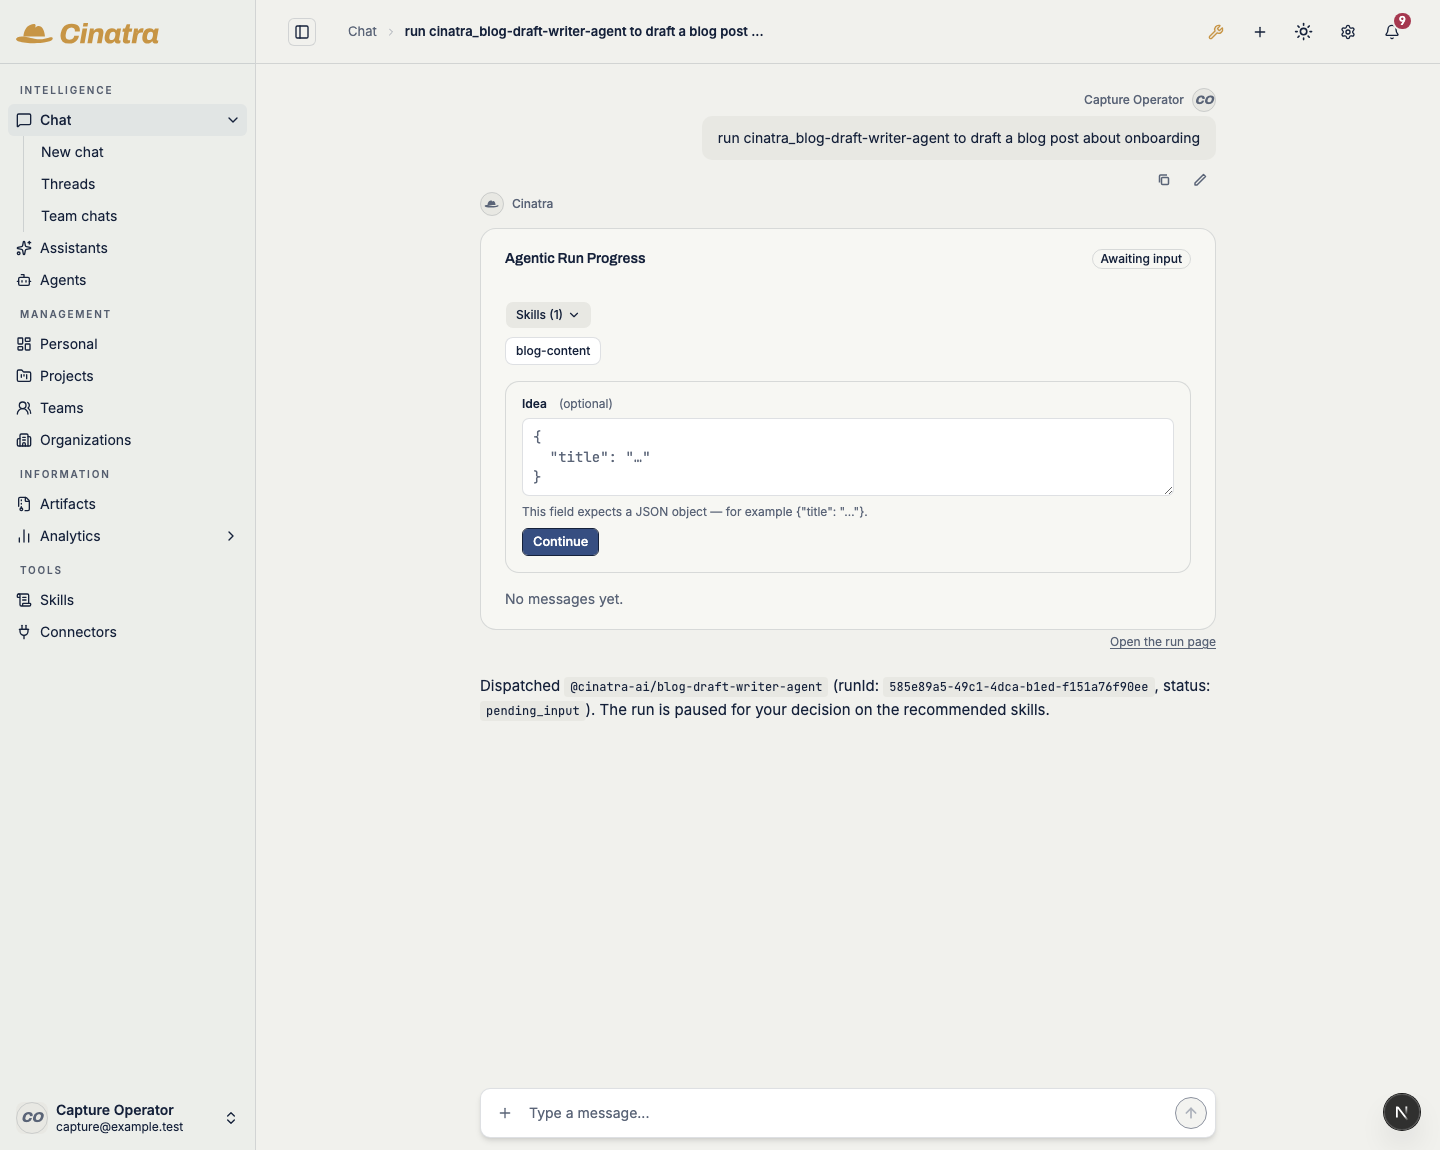
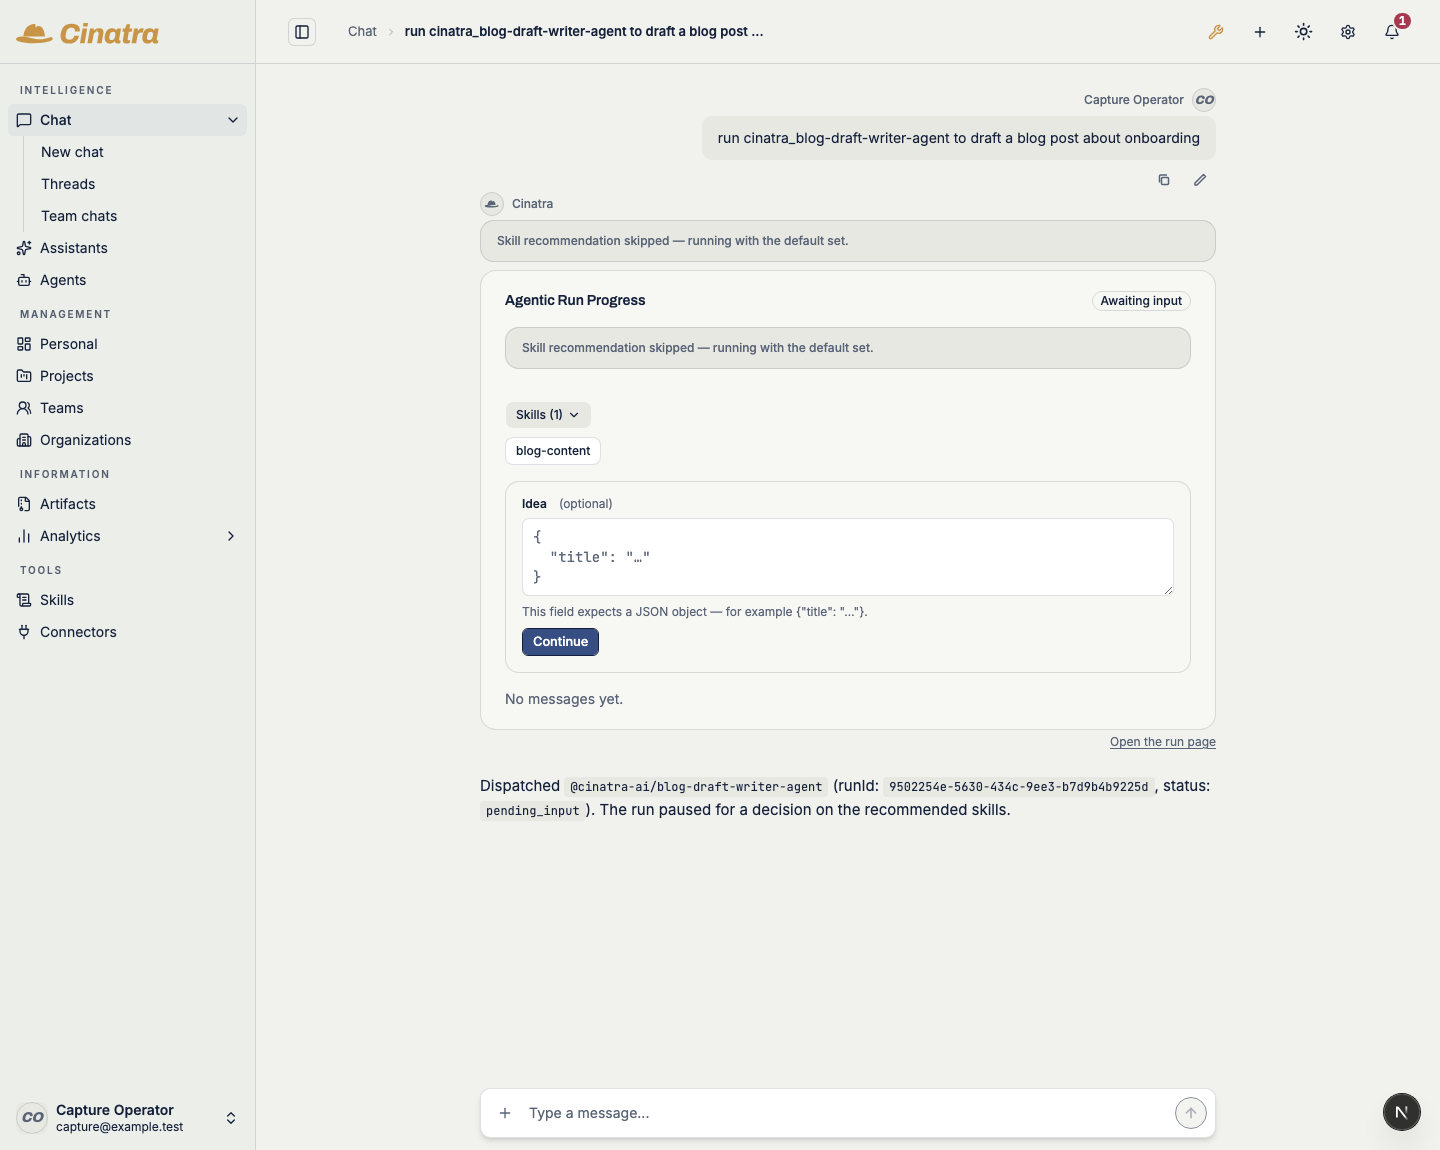
test(evidence): the skipped card now settles, and the record says five cells
The Skip cell is re-captured against the fix. It used to show no card at all,
because a skip of forced-only candidates left no evidence for the card to
read back, and the shot was labelled settled while showing only the run
panel. It now shows the settled card in the conversation — "Skill
recommendation skipped" — read back after a full transcript reload, with its
controls gone and its root reading kind, host and state.

The evidence row that makes it possible is in the log: the forced candidate,
recorded with a null rank.

The README said four cells while listing five, and still carried the finding
as open. Both corrected, and a note added that these cells are provisional
until they can be re-recorded through the canonical capture index.

Assisted-by: Claude Code (claude-opus-5)

diff --git a/evidence/2786-s9b-chat-thread-held/README.md b/evidence/2786-s9b-chat-thread-held/README.md
@@ -1,7 +1,11 @@
 # chat-hitl S9b — the §V recommendation hold, decided inside the conversation
 
 Captured 2026-08-16 on the DEVELOPMENT RUNTIME, against this branch, on the real
-application. These four cells REPLACE the earlier round's captures.
+application. These FIVE cells REPLACE the earlier round's captures.
+
+The Skip cell was RE-CAPTURED after the skip-evidence fix landed — the earlier
+version of it showed no card, because a skip of forced-only candidates left no
+evidence for the card to settle into.
 
 ## Correction to the previous round, stated first
 
@@ -77,7 +81,7 @@ proceeds.
 | `S9b-2__chat_thread__hold-wrapper-anchors.png` | **development** | The `data-chat-thread-recommendation-hold` wrapper itself, close up. |
 | `S9b-2b__chat_thread__skill-selected-in-chat.png` | **development** | The skill ticked inside the conversation, before Confirm. |
 | `S9b-3__chat_thread__confirmed-settled-in-place.png` | **development** | After Confirm IN CHAT: the same card settled in place to "Skills confirmed (1)", same position, same conversation, no navigation — and the run panel below has advanced to its actionable form. |
-| `S9b-4__chat_thread__skipped-settled-in-place.png` | **development** | After Skip IN CHAT on a second run: the release and dispatch succeed. See the finding below on what the row settles into. |
+| `S9b-4__chat_thread__skipped-settled-in-place.png` | **development** | After Skip IN CHAT, re-read after a full transcript RELOAD: the same card settled to "Skill recommendation skipped — running with the default set.", controls gone, still inside the conversation list. Its root reads `kind=recommendation_hold`, `host=chat_thread`, `state=skipped`. |
 
 `capture-log.txt` is the unedited machine output, including the DOM anchor
 readouts and the queue probes.
@@ -132,25 +136,33 @@ authorized mounts (this `chat_thread` mount and the run panel's `run_card`
 mount) are labelled host-correct by construction, from the provider each mount
 declared. The root is `display: contents`, so the identity costs no layout.
 
-## FINDING — Skip releases and dispatches, but renders no settled summary here
+## The Skip finding is RESOLVED
 
-Confirm settles exactly as ruled. **Skip does not, on this fixture, and the cause
-is in the core action rather than in the mount.**
+The earlier round recorded that Skip released and dispatched but rendered no
+settled summary. The owner ruled option (a), and it is implemented:
 
-`skipRunRecommendationAction` writes its durable skip evidence only for
-candidates the scorer marked `recommended`. This capture's single candidate is
-offered but NOT recommended — the row shows `Skills (0/1)` and the chip carries
-`data-forced="true"` — because the run's extracted `inputParams` are empty on a
-scripted-provider stack, so the intent text the scorer matches against is `{}`.
-With no recommended candidate, Skip writes no `run_rejected_recommendations` row;
-`getRunRecommendationHoldStateAction` then finds neither selected revisions nor a
-skip marker and answers `none`, so the card clears instead of settling into a
-"skipped" summary.
+- skip evidence is now written for EVERY candidate the row offered, not only the
+  scorer-recommended ones, with a NULL rank for the ones that were offered but
+  never ranked. This capture's evidence row reads
+  `@cinatra-ai/chat:blog-content:user_skipped:NULL` — the forced candidate,
+  recorded;
+- the evidence write is no longer best-effort. A failed write refuses the
+  decision and leaves the run parked and retryable, because releasing while
+  losing the record is exactly what made the card vanish. An EMPTY row is not a
+  failed write and still releases, so nobody is left holding a card they cannot
+  dismiss.
 
-Confirm is unaffected because it persists the SELECTED skill, recommended or
-forced, which is why `S9b-3` settles.
+Measured in this capture: `decisionSummary: "skipped"`, controls gone, park
+`released`, run advanced off `pending_input`, and exactly one queue job naming
+that run. `skip-recapture-log.txt` is the unedited machine output.
 
-This is recorded, not resolved. It is stated as a contradiction for the owner in
-the PR: the ruling says a successful Skip settles the card into its skipped
-summary, and the shipped action makes that outcome conditional on a recommended
-candidate existing.
+The cleaner home for this evidence is a single run-level skip record rather than
+one row per candidate; that needs a schema change, so this carries it on the
+sanctioned fallback — the existing rejection table, with a nullable rank.
+
+## Re-record planned through the canonical capture index
+
+These cells predate the canonical capture index. Once the gates PR lands, they
+are to be re-recorded through it so the cell names and the index agree; the
+names here are provisional and chosen to be as close to the eventual ones as
+possible.
